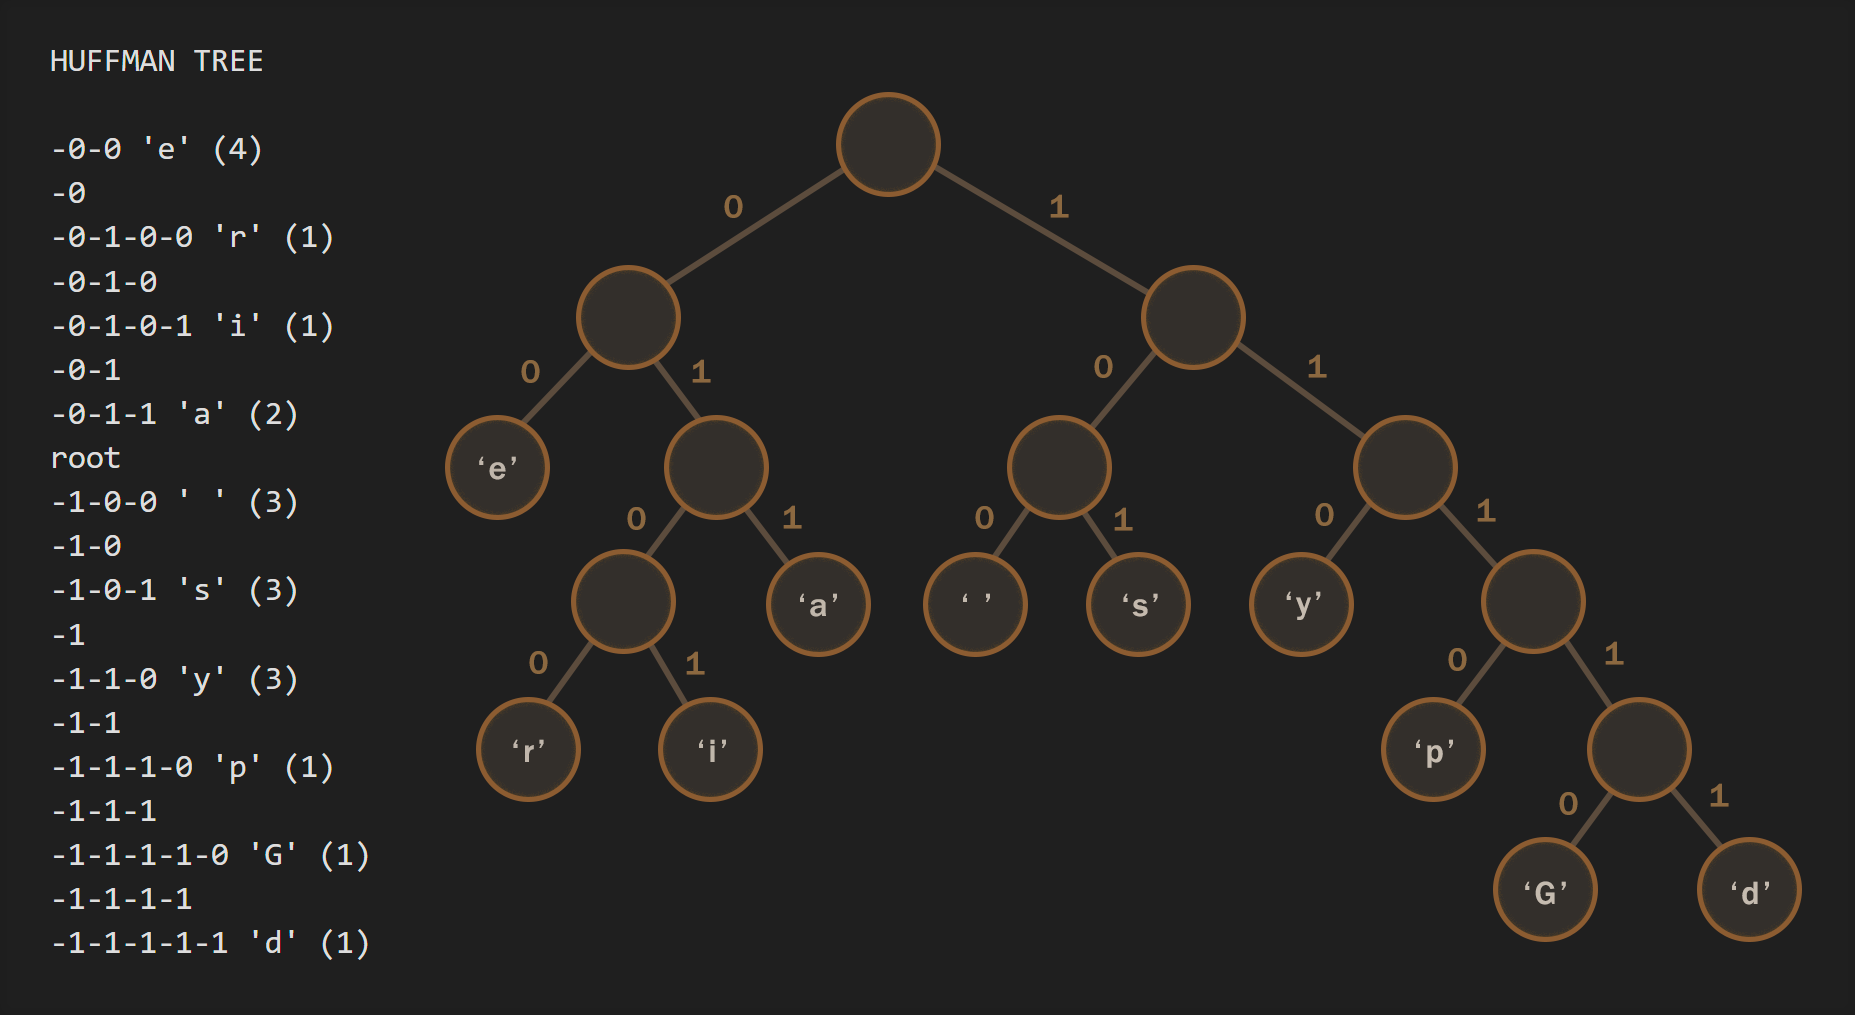
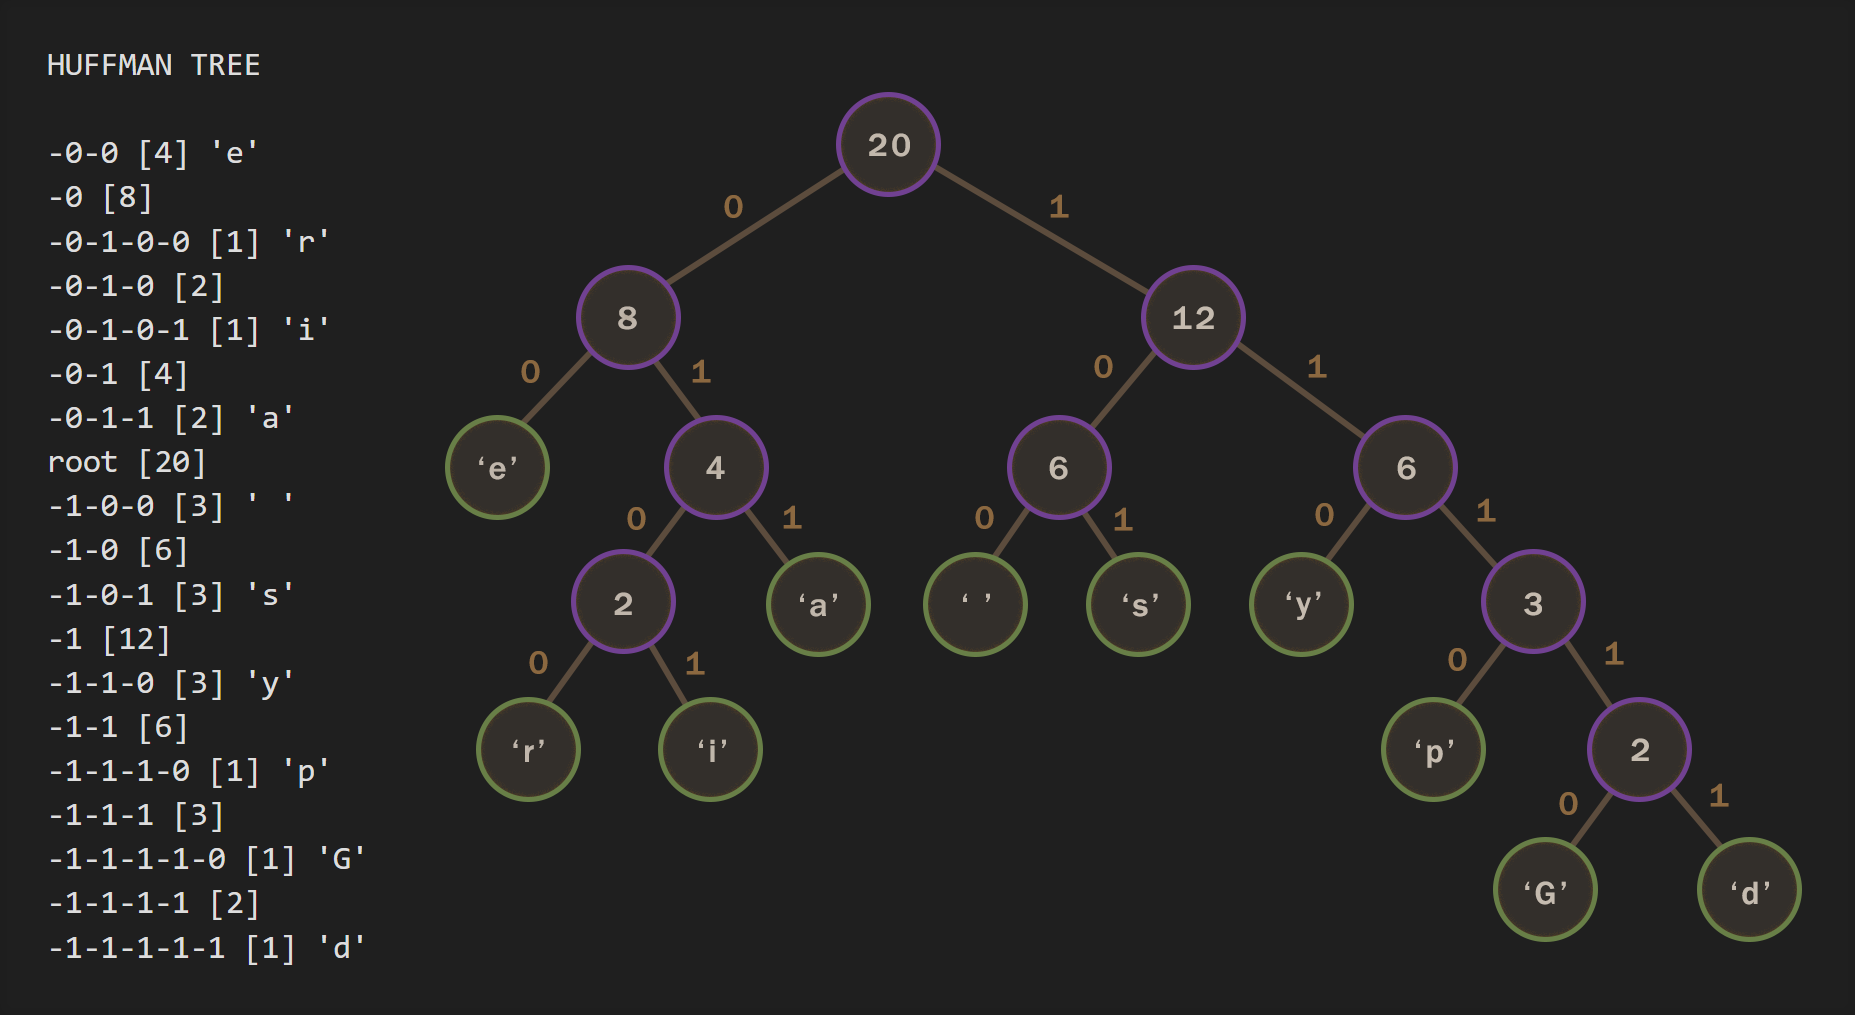
hfc

diff --git a/algorithms/greedy/huffman/huffman.c b/algorithms/greedy/huffman/huffman.c
@@ -108,9 +108,9 @@ void showTree(node *n, short *code, size_t level) {
     for (size_t i = 0; i < level; ++i)
       printf("-%hd", code[i]);
     if (! n->left && ! n->right)
-      printf(" '%c' (%zu)\n", n->ch, n->freq);
-    else printf("\n");
-  } else printf("root\n");
+      printf(" [%zu] '%c'\n", n->freq, n->ch);
+    else printf(" [%zu]\n", n->freq);
+  } else printf("root [%zu]\n", n->freq);
 
   code[level] = 1;
   showTree(n->right, code, level + 1);

diff --git a/algorithms/greedy/huffman/README.md b/algorithms/greedy/huffman/README.md
@@ -18,8 +18,46 @@ From this tree, we can then determine the codeword for each character by travers
 
 At each step the algorithm makes the ${\color{peru}\text{greedy choice}}$ of grabbing the two nodes with the lowest frequency, which is optimal because it ensures that the most frequent characters end up having the shortest paths from the root to their leaf nodes, and the least frequent characters end up having the longest ones, resulting in a minimal total length of the encoded text. The choice is also safe, as the algorithm constructs a full binary tree with the characters as its leaves, so that by the end of the process, we are guaranteed to have an optimal prefix-free binary code.
 
-The running time of the algorithm is $\mathcal{O}(n\log{n})$, where $n = |\space \sigma \space|$, the number of distinct characters in the text. This is because the algorithm performs $n-1$ iterations, in order to generate a binary tree with $n-1$ internal nodes. Each of these iterations takes $\mathcal{O}(\log{n})$ time as it involves two extract-min operations and one insert operation, all of which take $\mathcal{O}(\log{n})$ time for a min-priority queue of size $n$ implemented as a binary min-heap.
+The running time of the algorithm is $\mathcal{O}(n\log{n})$, where $n = \mid \sigma \mid$, the number of distinct characters in the text. This is because the algorithm performs $n-1$ iterations, in order to generate a binary tree with $n-1$ internal nodes. Each of these iterations takes $\mathcal{O}(\log{n})$ time as it involves two extract-min operations and one insert operation, all of which take $\mathcal{O}(\log{n})$ time for a min-priority queue of size $n$ implemented as a binary min-heap.
 
-The implementation outputs the codewords and frequencies for each character in the text, as well as a representation of the constructed Huffman tree. The tree is displayed in a compact form by printing the nodes in an inorder traversal, along with the edges and their directions ($0$ for left and $1$ for right) leading to them. In order to help interpret and visualize the tree, a visual representation of the tree has been included for the following two test cases: [test case 5](https://github.com/pl3onasm/CLRS/blob/main/algorithms/greedy/huffman/images/hfc-test5.png), [test case 6](https://github.com/pl3onasm/CLRS/blob/main/algorithms/greedy/huffman/images/hfc-test6.png).
+The implementation outputs the codewords and frequencies for each character in the text, as well as a representation of the constructed Huffman tree. The tree is displayed in a compact form by printing the nodes in an inorder traversal, along with the edges and their directions ($0$ for left and $1$ for right) leading to them. For instance, test case 2 corresponds to the example given in the book, and produces the following output:
+
+```
+CODEWORD TABLE
+
+char      freq       code
+   a        45       0
+   c        12       100
+   b        13       101
+   f         5       1100
+   e         9       1101
+   d        16       111
+
+
+HUFFMAN TREE
+
+-0 [45] 'a'
+root [100]
+-1-0-0 [12] 'c'
+-1-0 [25]
+-1-0-1 [13] 'b'
+-1 [55]
+-1-1-0-0 [5] 'f'
+-1-1-0 [14]
+-1-1-0-1 [9] 'e'
+-1-1 [30]
+-1-1-1 [16] 'd'
+
+```
+
+A visual interpretation of this output is shown in the figure below.
+
+<p align="center" width="85%">
+<img src="images/hfc-test2.png"
+     alt="obsts3"
+     style="float: left; padding-bottom: 40px;" />
+</p>
+
+In order to further help interpret and visualize the output, visual representations have been included for a few more test cases: [test case 5](https://github.com/pl3onasm/CLRS/blob/main/algorithms/greedy/huffman/images/hfc-test5.png), [test case 6](https://github.com/pl3onasm/CLRS/blob/main/algorithms/greedy/huffman/images/hfc-test6.png).
 
 Implementation: [Huffman](https://github.com/pl3onasm/AADS/tree/main/algorithms/greedy/huffman/huffman.c)
